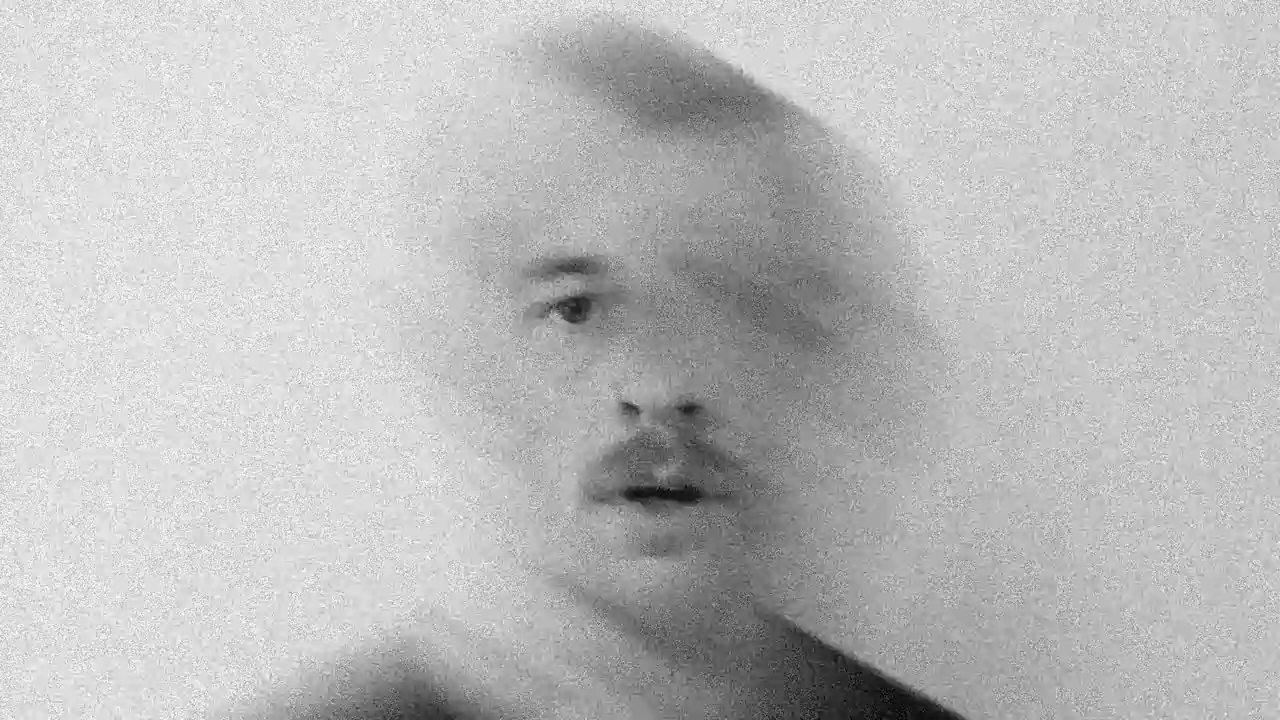
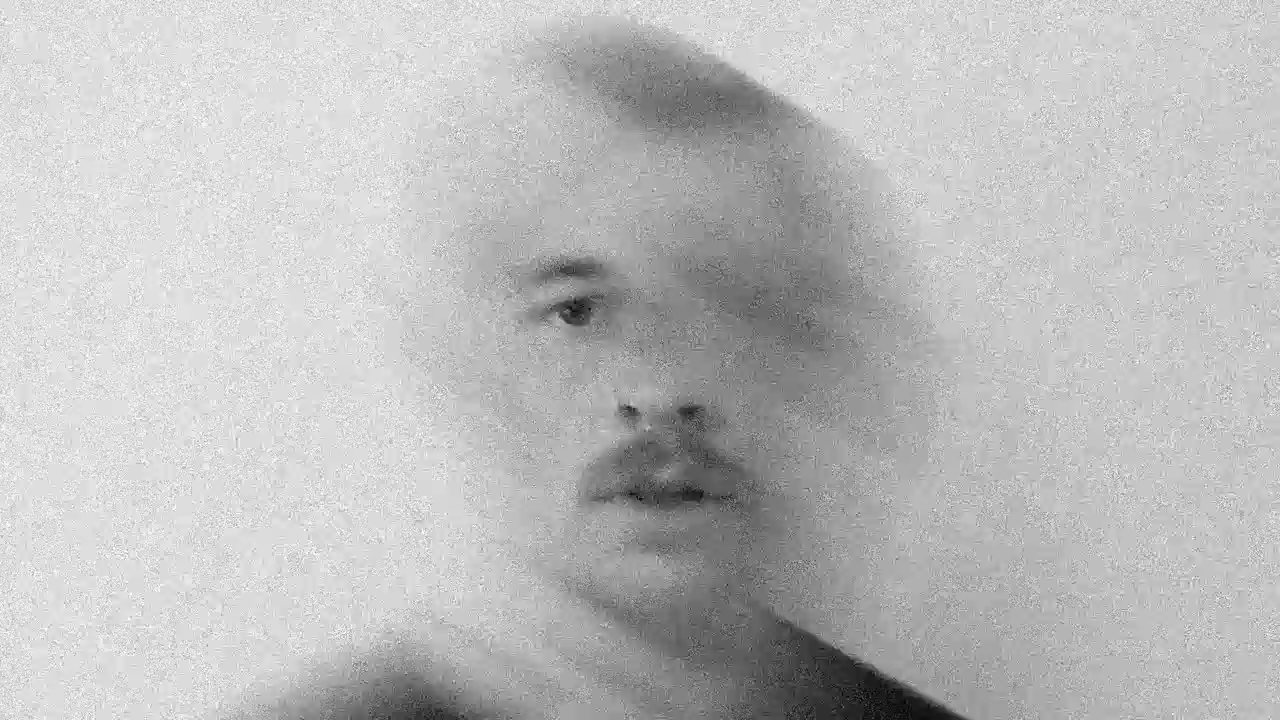
Cleaning up the face animation layers that were frozen
adding in the missing frames that made it appear that sections were frozen.

added in some additional comments.

Next step is to do the final clean up of the code.

diff --git a/music_starter.js b/music_starter.js
@@ -3,6 +3,7 @@ let bgimg;
 let faceFrames = {};
 let faceImageAmount = 3705;
 let currentImage = 0;
+let noiseImg;
 
 // Images in memory paramaters
 let allfaceSectionsComplete = false;
@@ -35,7 +36,7 @@ let faceSections = [
   {name: 'intro3', frameBeg: 796, frameEnd: 823, start: 66.0, end: 68.03},
   {name: 'intro4', frameBeg: 855, frameEnd: 878, start: 71.009, end: 73.007},
   {name: 'intro5', frameBeg: 929, frameEnd: 957, start: 77.019, end: 79.041},
-  {name: 'intro6', frameBeg: 1044, frameEnd: 1060, start: 86.053, end: 88.017},
+  {name: 'intro6', frameBeg: 1044, frameEnd: 1071, start: 86.053, end: 88.017},
  
   //body secton vocal timing
   {name: 'body1', frameBeg: 1184, frameEnd: 1206, start: 98.034, end: 100.028},
@@ -336,6 +337,9 @@ function draw_one_frame(words, vocal, drum, bass, other, counter) {
     let pink = color(255, 25, 104); //pattern colours
     let blue = color(0,0,255);
 
+    
+    //using the drum channel to add in desaturated glitches to the pattern
+
     if (drum <40){  //mapping the drum channel to the pink colour to get desaturated effect in a more controlled way than lerpColor, I did not like the inbetween colours lerp cor created so wanted to do it in a more on/off switch way to toggle between two colours
      //this gives more change over the intro and breakdown and adds to the build up as the pink comes in more and more as the drums get louder towards body
       pink = color(120); //grey
@@ -392,9 +396,12 @@ function draw_one_frame(words, vocal, drum, bass, other, counter) {
         ellipse(x * tileW, y * tileH, tileW, tileH);
       }
     }
-  }
 
+
+  
+  }
 }
+
 
 function Moire(seconds, moireColour, layerSelect, counter,bass,drum,other) {
   //function that generates how the patterns will act, eg if they will rotate etc
